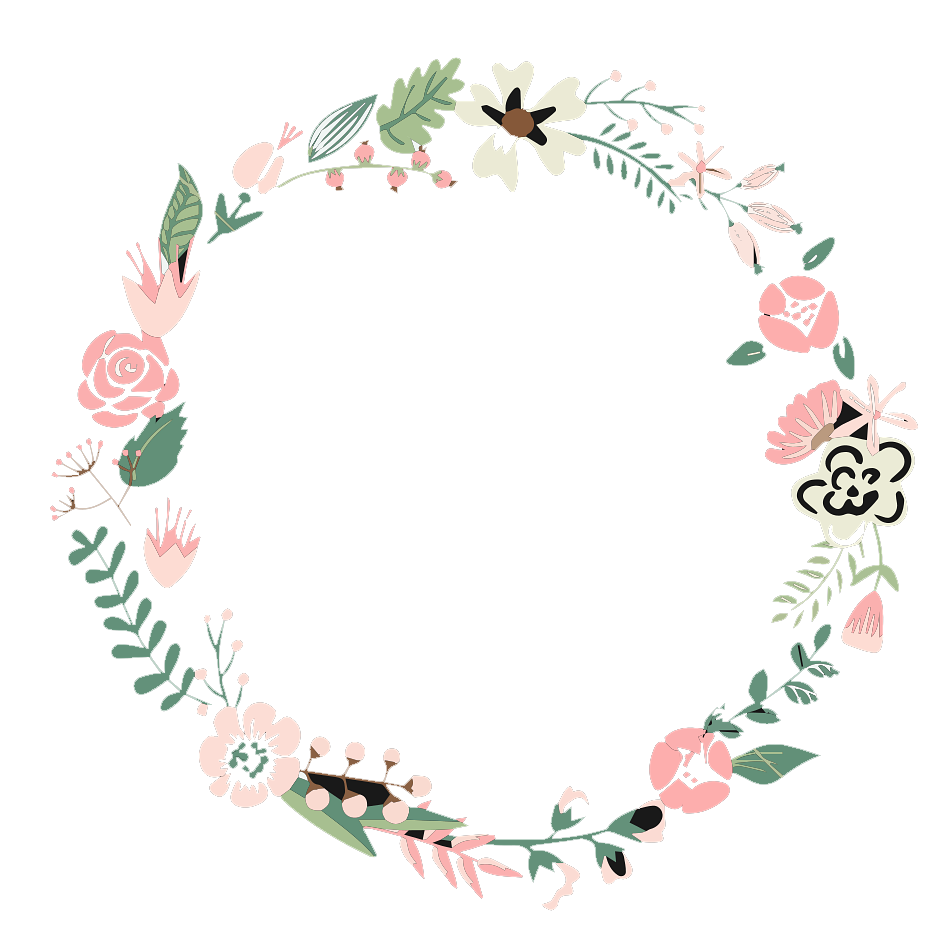
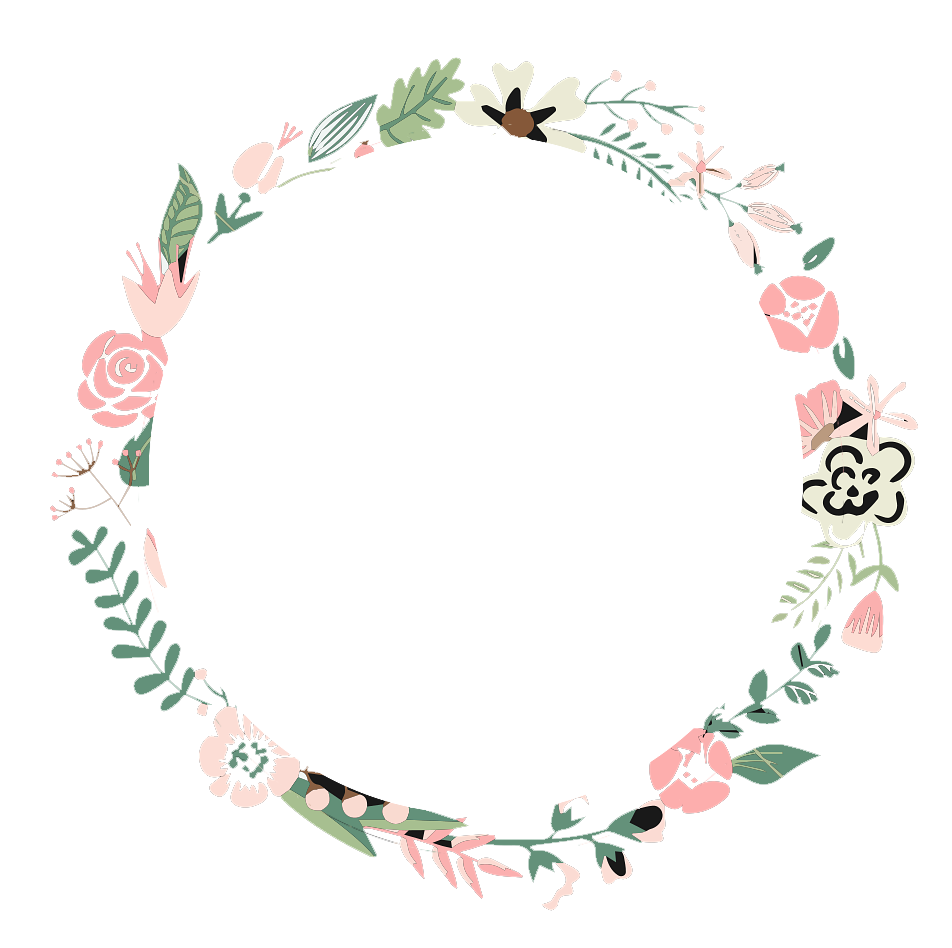
menambahkan beberapa gambar, membuat kontent di section 7 dan membuat bingkai untuk forum input

diff --git a/style.css b/style.css
@@ -2076,3 +2076,147 @@ body {
     font-weight: bold;
 }
 
+/* section 7 */
+.section-7 {
+    width: 100%;
+    height: 140vh;
+    background-color: whitesmoke;
+    display: flex;
+    justify-content: center;
+    align-items: center;
+    flex-direction: column;
+}
+/* bingkai luar */
+.section-7 .content-1-section-7 {
+    width: 40rem;
+    height: 40rem;
+    background-image: url("bingkai-3.png");
+    background-position: center;
+    background-size: cover;
+    display: flex;
+    justify-content: center;
+    align-items: center;
+    flex-direction: column;
+    border-radius: 50%;
+}
+/* bingkai dalam */
+.section-7 .content-1-section-7 .bingkai {
+    width: 27rem;
+    height: 27rem;
+    background-color: white;
+    display: flex;
+    justify-content: center;
+    align-items: center;
+    flex-direction: column;
+    border-radius: 50%;
+    border: solid 1px rgba(0, 0, 0, 0.5);
+    position: relative;
+    overflow: hidden;
+}
+
+.section-7 .content-1-section-7 .bingkai::before {
+    content: " ";
+    position: absolute;
+    width: 100%;
+    height: 100%;
+    background-image: url("bingkai-4.png");
+    background-position: center;
+    background-size: 33rem;
+    transform: rotate(90deg);
+    opacity: .3;
+    z-index: 1;
+}
+
+.section-7 .content-1-section-7 .bingkai .h2-1-bingkai {
+    font-size: .9rem;
+    font-family: var(--popins);
+    z-index: 2;
+}
+
+.section-7 .content-1-section-7 .bingkai .p-1-bingkai {
+    font-size: .8rem;
+    font-family: var(--latin);
+    font-style: italic;
+    margin-top: 1%;
+    z-index: 2;
+}
+
+.section-7 .content-1-section-7 .bingkai .nama-bingkai {
+    display: flex;
+    justify-content: center;
+    align-items: center;
+    position: relative;
+    margin-top: 8%;
+    margin-bottom: 8%;
+    z-index: 2;
+}
+
+.section-7 .content-1-section-7 .bingkai .nama-bingkai::before {
+    content: " ";
+    position: absolute;
+    width: 145%;
+    height: 1.2px;
+    background-color: black;
+    top: -35%;
+    opacity: .4;
+}
+
+.section-7 .content-1-section-7 .bingkai .nama-bingkai::after {
+    content: " ";
+    position: absolute;
+    width: 145%;
+    height: 1.2px;
+    background-color: black;
+    bottom: -35%;
+    opacity: .4;
+}
+
+.section-7 .content-1-section-7 .bingkai .nama-bingkai .nama-1 {
+    font-family: var(--latin);
+    font-size: 2rem;
+    font-style: italic;
+    letter-spacing: 5px;
+    z-index: 2;
+}
+
+.section-7 .content-1-section-7 .bingkai .nama-bingkai .dan-bingkai {
+    margin-right: 10%;
+    margin-left: 10%;
+    padding: 9px;
+    padding-left: 15px;
+    padding-right: 15px;
+    background-color: black;
+    border-radius: 50%;
+    color: white;
+    font-family: var(--lato);
+    font-style: italic;
+    font-weight: 300;
+    z-index: 2;
+}
+
+.section-7 .content-1-section-7 .bingkai .nama-bingkai .nama-2 {
+    font-family: var(--latin);
+    font-size: 2rem;
+    font-style: italic;
+    letter-spacing: 5px;
+}
+
+/* input */
+
+.section-7 .content-1-section-7 .bingkai .forum-bingkai .input-1-bingkai {
+    z-index: 2;
+    position: relative;
+}
+
+.section-7 .content-1-section-7 .bingkai .forum-bingkai .input-1-bingkai input:first-child{
+    padding: 8px;
+    outline: none;
+    font-size: .6rem;
+    font-family: var(--popins);
+}
+.section-7 .content-1-section-7 .bingkai .forum-bingkai .input-1-bingkai input:nth-child(2){
+    padding: 8px;
+    outline: none;
+    font-size: .6rem;
+    font-family: var(--popins);
+}

diff --git a/index.html b/index.html
@@ -565,8 +565,8 @@
                 </div>
                 <div class="forum-bingkai">
                     <div class="input-1-bingkai">
-                        <input type="text" name="nama" id="nama" placeholder="Your name *">
-                        <input type="text" name="email" id="email" placeholder="Email address*">
+                        <input type="text" name="nama" id="nama" placeholder="Your name *" size="25">
+                        <input type="text" name="email" id="email" placeholder="Email address*" size="25">
                     </div>
                     <div class="input-2-bingkai">
                         <p class="p-input-2-bingkai">Gants</p>
